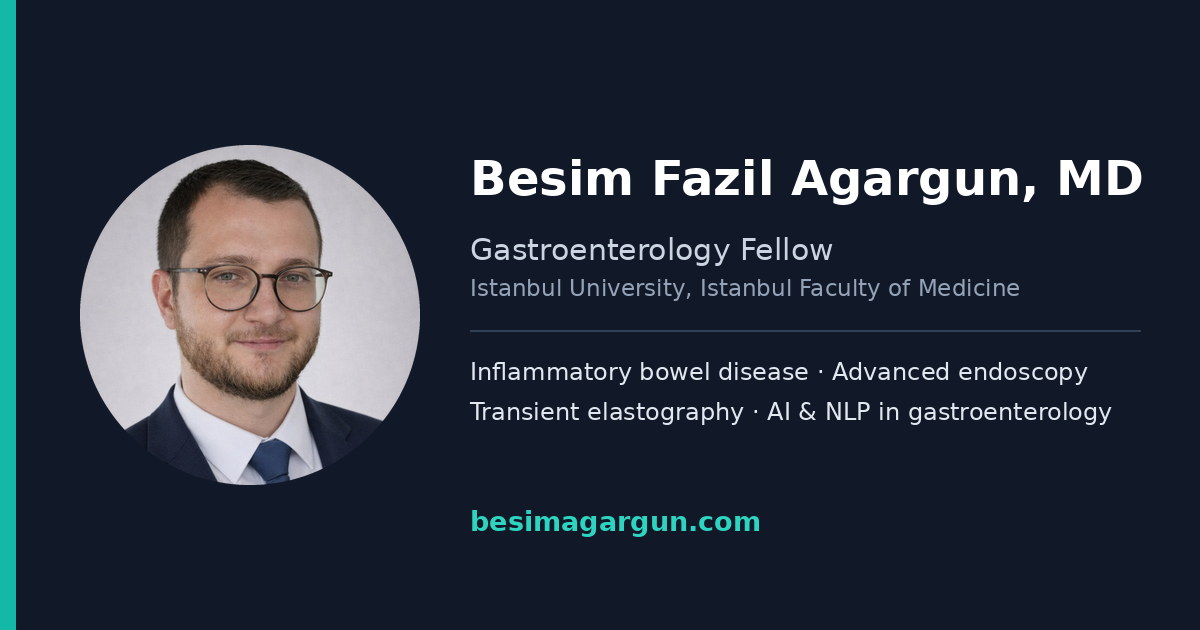
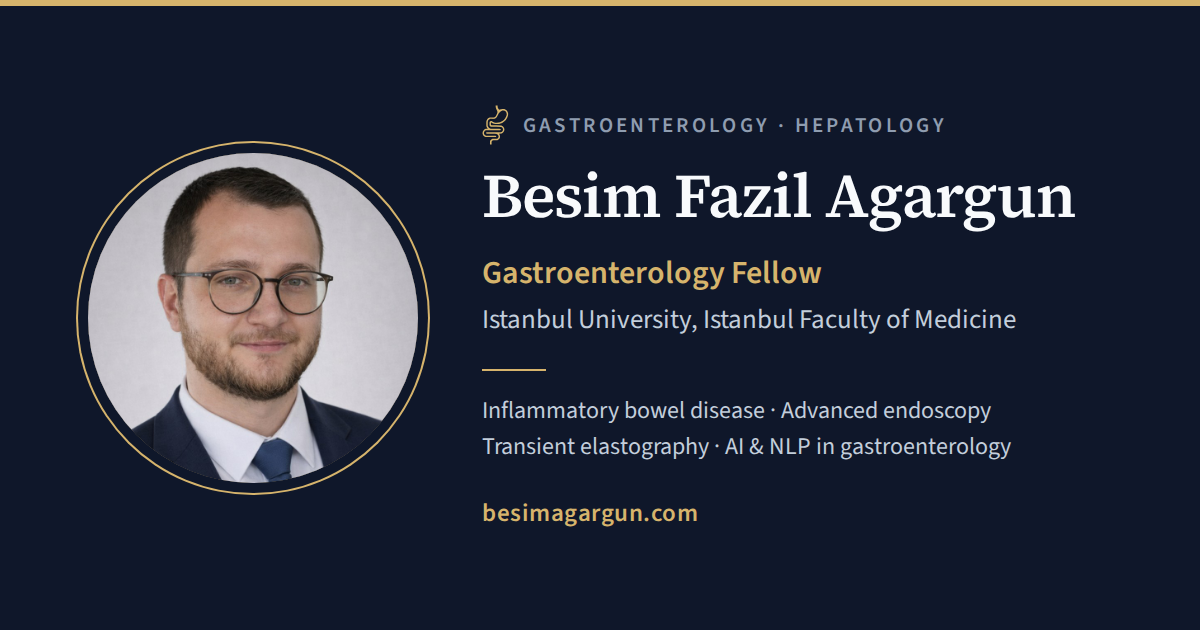
Gold accent, drop repeated Experience section, PhD at Institute of Health Sciences
- Accent colour fixed to gold (#d6b46c); preview-only colour variants removed
- Experience section removed from the home and CV pages (Education already
  lists the fellowship and residency); fellowship description removed
- PhD entry: Istanbul University, Institute of Health Sciences
- Share image (og.png) redrawn in the new design

Claude-Session: https://claude.ai/code/session_01TGTb95XGtyDLzD24VT4iEF

diff --git a/experience/index.html b/experience/index.html
@@ -34,26 +34,7 @@
   <a class="btn" href="../uploads/Agargun-CV-2026-09.pdf"><svg class="icon" aria-hidden="true"><use href="../assets/icons.svg#document-arrow-down"></use></svg>Download CV</a>
 </header>
 
-<!-- The four blocks below are copied from index.html by tools/build.py. Edit them in index.html, then run the script. -->
-<section class="row" id="experience">
-  <h2 class="row-title">Experience</h2>
-  <div class="row-body">
-<!-- BEGIN:experience -->
-    <ol class="entries">
-      <li>
-        <div class="entry-head"><h3>Gastroenterology &amp; Hepatology Fellow</h3><span class="when">2024 - present</span></div>
-        <p class="where">Istanbul University, Istanbul Faculty of Medicine</p>
-        <p class="desc">Clinical care in gastroenterology and hepatology; endoscopy unit practice (diagnostic and therapeutic endoscopy, intestinal ultrasound, transient elastography). Scientific lead of an NLP programme over more than 11,000 colonoscopy reports and coordinating investigator of the ELASTIBD study.</p>
-      </li>
-      <li>
-        <div class="entry-head"><h3>Resident, Internal Medicine</h3><span class="when">2018 - 2022</span></div>
-        <p class="where">Istanbul University, Istanbul Faculty of Medicine</p>
-      </li>
-    </ol>
-<!-- END:experience -->
-  </div>
-</section>
-
+<!-- The three blocks below are copied from index.html by tools/build.py. Edit them in index.html, then run the script. -->
 <section class="row" id="education">
   <h2 class="row-title">Education</h2>
   <div class="row-body">
@@ -61,12 +42,11 @@
     <ol class="entries">
       <li>
         <div class="entry-head"><h3>PhD, Clinical Trials</h3><span class="when">2026 - present</span></div>
-        <p class="where">Istanbul University</p>
+        <p class="where">Istanbul University, Institute of Health Sciences</p>
       </li>
       <li>
         <div class="entry-head"><h3>Fellowship, Gastroenterology &amp; Hepatology</h3><span class="when">2024 - present</span></div>
         <p class="where">Istanbul University, Istanbul Faculty of Medicine</p>
-        <p class="desc">Subspecialty training in gastroenterology and hepatology, including diagnostic and therapeutic endoscopy.</p>
       </li>
       <li>
         <div class="entry-head"><h3>Residency, Internal Medicine</h3><span class="when">2018 - 2022</span></div>

diff --git a/index.html b/index.html
@@ -137,26 +137,6 @@
   </div>
 </section>
 
-<!-- ============ EXPERIENCE (also copied to the CV page by tools/build.py) ============ -->
-<section class="row wrap" id="home-experience">
-  <h2 class="row-title">Experience</h2>
-  <div class="row-body">
-<!-- BEGIN:experience -->
-    <ol class="entries">
-      <li>
-        <div class="entry-head"><h3>Gastroenterology &amp; Hepatology Fellow</h3><span class="when">2024 - present</span></div>
-        <p class="where">Istanbul University, Istanbul Faculty of Medicine</p>
-        <p class="desc">Clinical care in gastroenterology and hepatology; endoscopy unit practice (diagnostic and therapeutic endoscopy, intestinal ultrasound, transient elastography). Scientific lead of an NLP programme over more than 11,000 colonoscopy reports and coordinating investigator of the ELASTIBD study.</p>
-      </li>
-      <li>
-        <div class="entry-head"><h3>Resident, Internal Medicine</h3><span class="when">2018 - 2022</span></div>
-        <p class="where">Istanbul University, Istanbul Faculty of Medicine</p>
-      </li>
-    </ol>
-<!-- END:experience -->
-  </div>
-</section>
-
 <!-- ============ EDUCATION (also copied to the CV page) ============ -->
 <section class="row wrap" id="education">
   <h2 class="row-title">Education</h2>
@@ -165,12 +145,11 @@
     <ol class="entries">
       <li>
         <div class="entry-head"><h3>PhD, Clinical Trials</h3><span class="when">2026 - present</span></div>
-        <p class="where">Istanbul University</p>
+        <p class="where">Istanbul University, Institute of Health Sciences</p>
       </li>
       <li>
         <div class="entry-head"><h3>Fellowship, Gastroenterology &amp; Hepatology</h3><span class="when">2024 - present</span></div>
         <p class="where">Istanbul University, Istanbul Faculty of Medicine</p>
-        <p class="desc">Subspecialty training in gastroenterology and hepatology, including diagnostic and therapeutic endoscopy.</p>
       </li>
       <li>
         <div class="entry-head"><h3>Residency, Internal Medicine</h3><span class="when">2018 - 2022</span></div>

diff --git a/assets/css/site.css b/assets/css/site.css
@@ -41,20 +41,12 @@
   --muted: #8f9db0;          /* meta, dates, labels */
   --rule: rgba(148, 163, 184, 0.16);
   --rule-strong: rgba(148, 163, 184, 0.3);
-  --accent: #5cc8bd;         /* the one accent colour (links, markers) */
-  --accent-strong: #8fdcd3;
-  --accent-soft: rgba(92, 200, 189, 0.12);
+  --accent: #d6b46c;         /* the one accent colour: gold (links, markers, logo) */
+  --accent-strong: #ead09a;  /* hover */
+  --accent-soft: rgba(214, 180, 108, 0.12);
   --serif: "Source Serif", "Source Serif 4", Georgia, Cambria, "Times New Roman", serif;
   --sans: "Source Sans", "Source Sans 3", -apple-system, BlinkMacSystemFont, "Segoe UI", Roboto, "Helvetica Neue", Arial, sans-serif;
 }
-/* Alternative accent colours: <html data-accent="gold|blue|coral|sage|lavender|rose|champagne"> */
-:root[data-accent="gold"]       { --accent: #d6b46c; --accent-strong: #ead09a; --accent-soft: rgba(214, 180, 108, 0.12); }
-:root[data-accent="blue"]       { --accent: #8ab6ee; --accent-strong: #b6d1f6; --accent-soft: rgba(138, 182, 238, 0.12); }
-:root[data-accent="coral"]      { --accent: #f29b82; --accent-strong: #f7c3b4; --accent-soft: rgba(242, 155, 130, 0.12); }
-:root[data-accent="sage"]       { --accent: #9dc8a5; --accent-strong: #c4dec9; --accent-soft: rgba(157, 200, 165, 0.12); }
-:root[data-accent="lavender"]   { --accent: #b3a9f3; --accent-strong: #d1cbf8; --accent-soft: rgba(179, 169, 243, 0.12); }
-:root[data-accent="rose"]       { --accent: #e5a3b6; --accent-strong: #efc8d3; --accent-soft: rgba(229, 163, 182, 0.12); }
-:root[data-accent="champagne"]  { --accent: #e3cfa6; --accent-strong: #eee2ca; --accent-soft: rgba(227, 207, 166, 0.12); }
 
 /* ---------- Base ---------- */
 *, *::before, *::after { box-sizing: border-box; }

diff --git a/tools/build.py b/tools/build.py
@@ -8,7 +8,7 @@ It (re)creates the parts of the site that come from data files:
   * publications/index.html and publications/<slug>/   from data/publications.json (+ data/bib/<slug>.bib)
   * events/index.html and events/<slug>/                from data/talks.json
   * the "Selected Publications" and "Talks" blocks in index.html
-  * the Experience / Education / Academic Service / Awards blocks of experience/index.html (copied from index.html)
+  * the Education / Academic Service / Awards blocks of experience/index.html (copied from index.html)
   * sitemap.xml
 
 Everything else (index.html, experience/index.html, 404.html, assets/) is plain HTML/CSS: edit it directly.
@@ -33,7 +33,7 @@ GENERATED = "<!-- generated by tools/build.py from data/*.json; do not edit by h
 MONTHS = ["January", "February", "March", "April", "May", "June", "July",
           "August", "September", "October", "November", "December"]
 YEAR = datetime.date.today().year
-CV_BLOCKS = ("experience", "education", "service", "awards")
+CV_BLOCKS = ("education", "service", "awards")
 
 
 # ---------------------------------------------------------------- helpers

diff --git a/README.md b/README.md
@@ -6,7 +6,7 @@ Kişisel akademik site. Düz HTML ve CSS ile yazılmıştır; tema, paket veya d
 
 | Dosya / klasör | İçerik |
 |---|---|
-| `index.html` | Ana sayfa: profil, projeler, deneyim, üyelikler, seçilmiş yayınlar, konuşmalar, ödüller, iletişim |
+| `index.html` | Ana sayfa: profil, ilgi alanları, projeler, eğitim, üyelikler, seçilmiş yayınlar, konuşmalar, ödüller, iletişim |
 | `experience/index.html` | CV sayfası |
 | `publications/` | Yayın listesi ve her yayının kendi sayfası (betik üretir, elle düzenlemeyin) |
 | `events/` | Konuşma listesi ve sayfaları (betik üretir, elle düzenlemeyin) |
@@ -34,7 +34,7 @@ Kişisel akademik site. Düz HTML ve CSS ile yazılmıştır; tema, paket veya d
 `<!-- BEGIN:... -->` ve `<!-- END:... -->` işaretleri arasındaki bloklar betikle güncellenir:
 
 - `selected-publications` ve `recent-talks`: `data/` dosyalarından doldurulur. Buraya elle yazmayın.
-- `experience`, `education`, `service`, `awards`: ana sayfada elle düzenlenir, CV sayfasına betik kopyalar. Değişiklikten sonra `python3 tools/build.py` çalıştırın.
+- `education`, `service`, `awards`: ana sayfada elle düzenlenir, CV sayfasına betik kopyalar. Değişiklikten sonra `python3 tools/build.py` çalıştırın.
 
 ## Yayın eklemek
 
@@ -64,3 +64,5 @@ Elle eklemek için `data/publications.json` içine aynı biçimde bir kayıt ekl
 ## Eski sürüm
 
 Bu sürümden önceki HugoBlox sitesi depoda `hugoblox-son` etiketiyle saklanır. Geri dönmek gerekirse o etiketteki dosyalar geri yüklenebilir.
+
+Yeni tasarımdan (serif başlıklar, altın vurgu rengi, Eylül 2026) hemen önceki düz HTML sürümü `tasarim-oncesi` etiketiyle saklanır.
